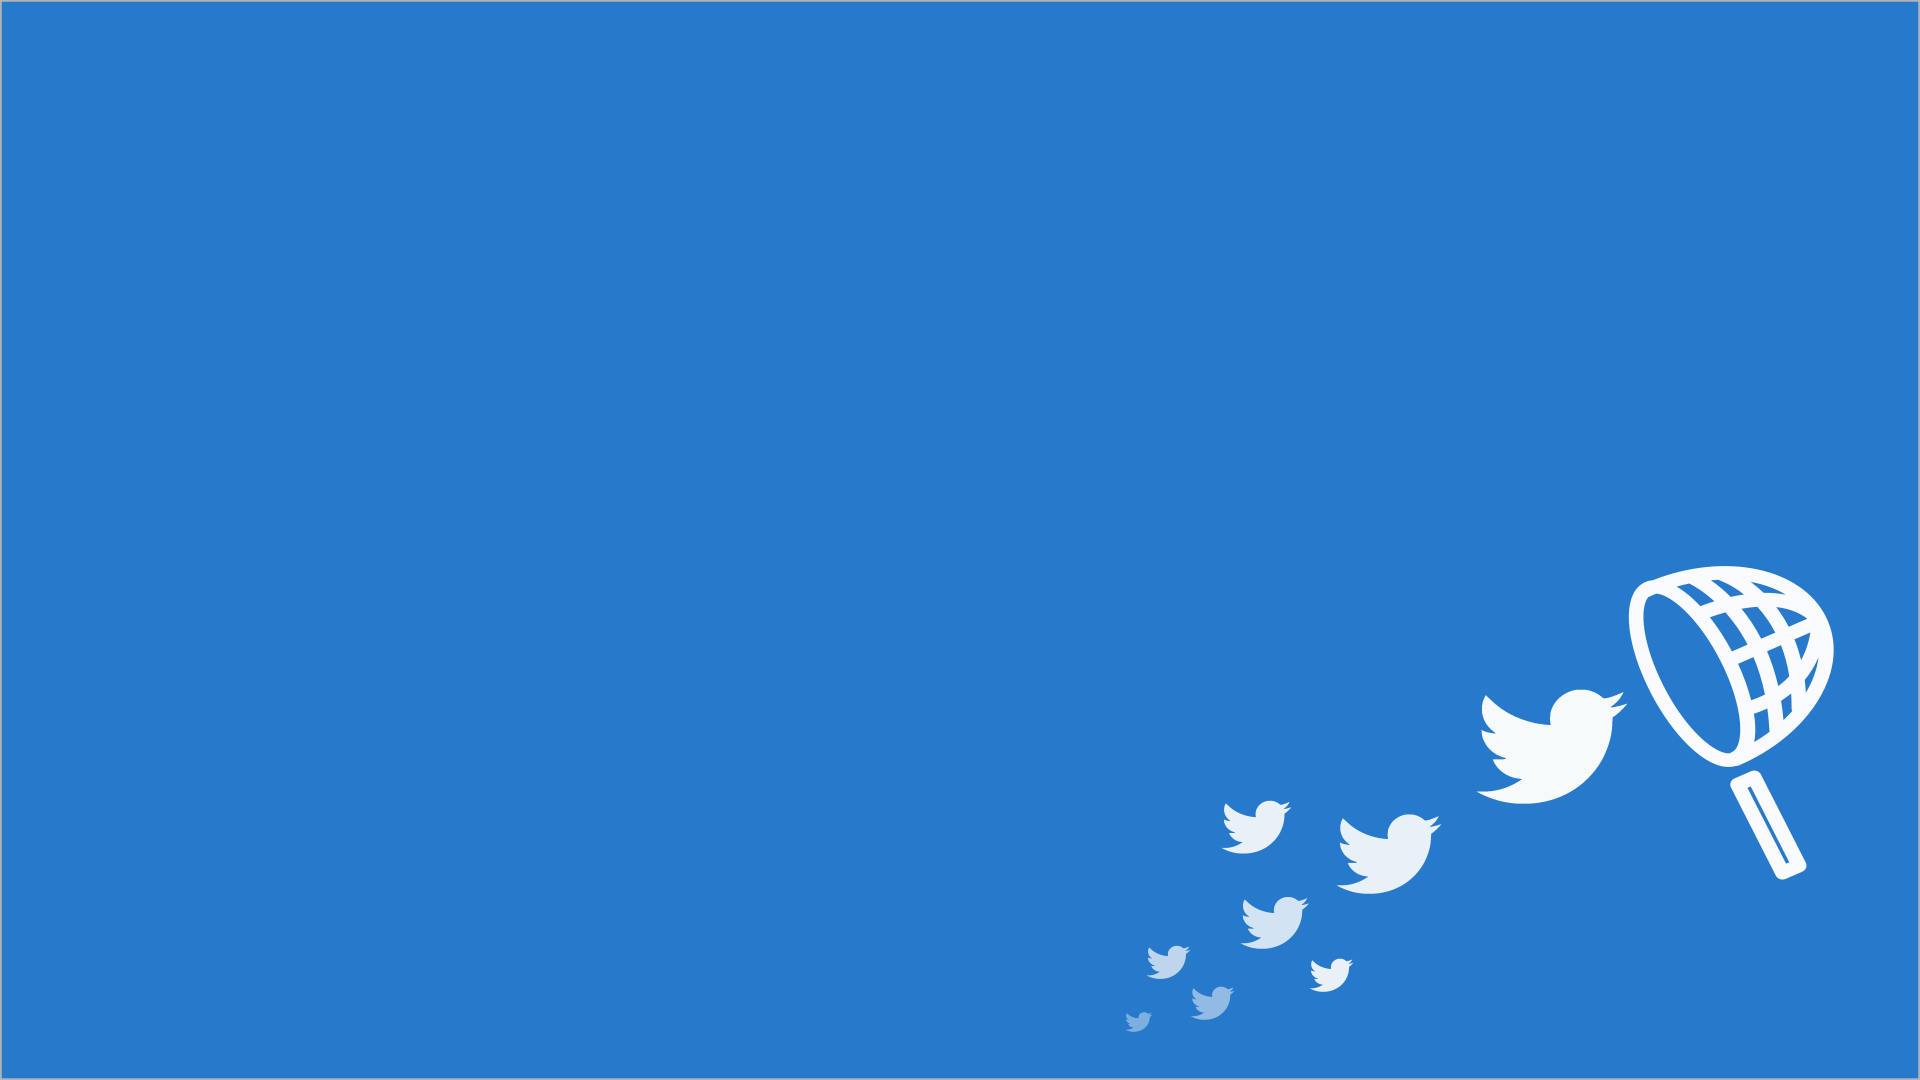
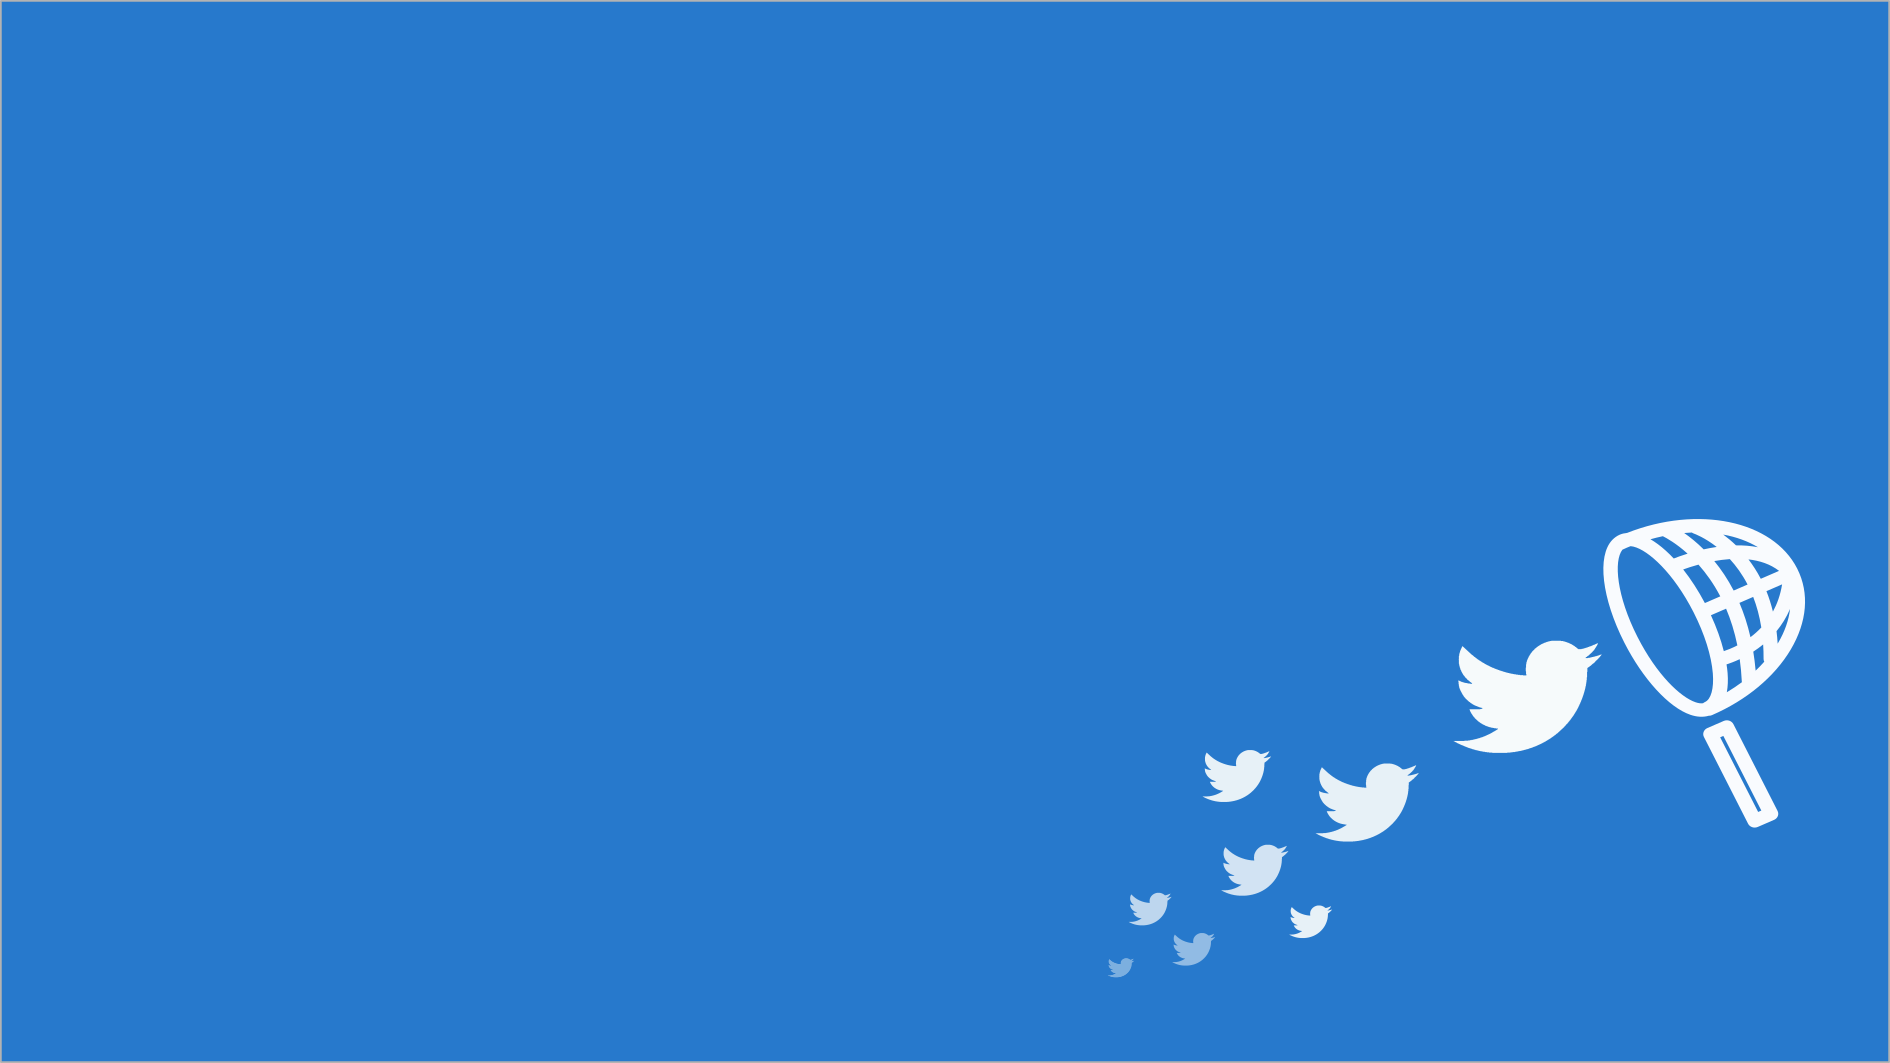
Working on slides

Changed region(s): [[0.7492, 0.4657, 0.9677, 0.8071], [0.5931, 0.683, 0.7492, 0.9624]]

diff --git a/PITCHME.md b/PITCHME.md
@@ -63,6 +63,7 @@ if self.mute is not True:
 
 #### Microservice 2
 # Twitter Stream Listener
+<br><br><br>
 
 +++
 
